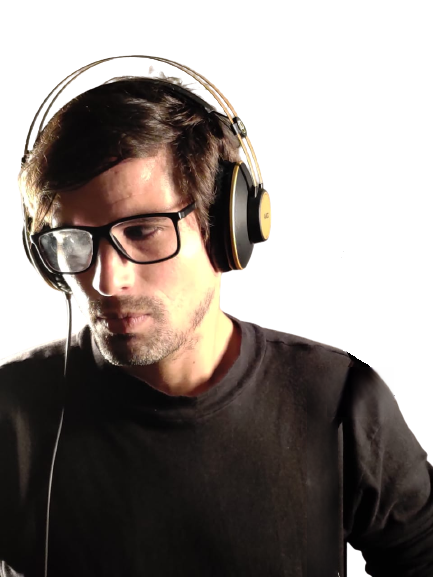
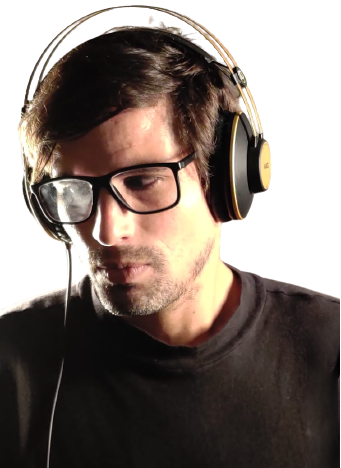
feat: navbar and apresentation finalized

diff --git a/src/components/navbar/Navbar.tsx b/src/components/navbar/Navbar.tsx
@@ -9,18 +9,34 @@ function Navbar(){
      return(
           <div className="navbar">
                     
-                    <div className="right-part">
-                         <h1>Portifólio</h1>
+               <div className="navbar-container">
+                    <div className="left-part ">
+                         <ul>
+                              <li ><a href="#about-me">Sobre mim</a></li>
+                              <li><a href="#skills">Skills</a></li>
+                              <li><a href="#training">Formação</a></li>
+                              <li ><a href="#projects">Projetos</a></li>
+                         </ul>
                     </div>
                     
-                    <div className="left-part">
-                              <ul>
-                                   <li>Sobre mim</li>
-                                   <li>Formação</li>
-                                   <li>Projetos</li>
-                              </ul>
-
+                    <div className="right-part">
+                         <a href="https://github.com/mfcastilho" target="_blank">
+                              <div className="social-media-icons-box">
+                              <img src="../../../public/github-icon.svg" alt="" className="github-icon" />   
+                              </div>
+                         </a>
+                         <a href="https://www.linkedin.com/in/mariofrederico/" target="_blank">
+                              <div className="social-media-icons-box">
+                              <img src="../../../public/linkedin-icon.svg" alt="" className="github-icon" />   
+                              </div>
+                         </a>
+                         <a href="https://www.instagram.com/mffredericofrederico/" target="_blank">
+                              <div className="social-media-icons-box">
+                              <img src="../../../public/instagram-icon.svg" alt="" className="github-icon" />   
+                              </div>
+                         </a>                           
                     </div>
+               </div>     
              
           </div>
      );

diff --git a/src/components/navbar/navbar.css b/src/components/navbar/navbar.css
@@ -1,7 +1,14 @@
+
 .navbar{
-     width: 100%;
-     height: 4rem;
-     margin: 0 auto;
+     display: flex;
+     justify-content: center;
+}
+
+.navbar-container{
+     /* width: 100%; */
+     width: 90%;
+     height: 7rem;
+
      padding: 2rem 8rem;
      position: fixed;
 
@@ -9,30 +16,64 @@
      align-items: center;
      justify-content: space-between;
 
-     background-color: #0c0c0c;
-     /* background-color: #000; */
+     background-color: #1B1B1B;
 
-     border-bottom: 4px solid #b6b4b4;
-     /* border-top: 4px solid #b6b4b4; */
+     border-radius: .8rem;
+    
 
      z-index: 2;
 
      font-family: 'Elsie Swash Caps', cursive;
-     font-family: 'Orbitron', sans-serif;    
+     font-family: 'IBM Plex Mono', monospace;   
 }
 
-.navbar .right-part h1{
-     color: #fff;
+.navbar-container .right-part{
+     display: flex;
+
+     gap: 3rem;
 }
 
-.navbar  .left-part ul{
+.navbar-container .right-part .social-media-icons-box{
+     width: 2.3rem;
+     height: 2.3rem;
+     display: flex;
+     justify-content: center;
+     align-items: center;
+     /* background-color: #9C9C9C; */
+     background-color: #a09e9e;
+     border-radius: .5rem;
+     border: none;
+}
+
+.navbar-container .right-part .social-media-icons-box img{
+     width: 2rem;
+     height: 2rem;
+     border-radius: 50%;
+}
+
+
+
+.navbar-container .left-part{
+     width: 70%;
+    
+     
+}
+
+.navbar-container .left-part ul{
      display: flex;
      align-items: center;
-     gap: 2rem;
+     gap: 7rem;
+
 }
 
-.navbar  .left-part ul li{
-     color: #FFF;
+.navbar-container .left-part ul li{
+     
      list-style: none;
-     font-size: 1.5rem;
+     font-size: 1.4rem;
 }
+
+.navbar-container .left-part ul li a{
+     color: #9C9C9C;
+     text-decoration: none;
+}
+

diff --git a/src/components/toppart/TopPart.tsx b/src/components/toppart/TopPart.tsx
@@ -9,25 +9,26 @@ function TopPart(){
                          initial="hidden"
                          whileInView="visible"
                          viewport={{ once: true, amount: 0.5 }}
-                         transition={{ delay: 0.2, duration: 0.5 }}
+                         transition={{ delay: 0.2, duration: 1.5 }}
                          variants={{
                          hidden: { opacity: 0, x: -50 },
                          visible: { opacity: 1, x: 0 },
                     }}
                > 
                     <div className="left-part">
-                         <h2>Olá, meu nome é Mario Frederico</h2>
-                         <h6>Sou Desenvovledor Web</h6>
-                         <ul>
+                         <h3>Olá, meu nome é</h3>
+                         <h2>Mario Frederico Castilho</h2>
+                         <h6>Sou um desenvovledor web apaixonado por tecnologia que sempre busca aprender e aprimorar as aptidões.</h6>
+                         {/* <ul>
                               <li><a href="https://github.com/mfcastilho" target="_blank">Github</a></li>
                               <li><a href="https://www.linkedin.com/feed/" target="_blank">Linkedin</a></li>
                               <li><a href="">Instagram</a></li>
                               <li><a href="">Currículo</a></li>
-                         </ul>
+                         </ul> */}
                     </div>
                </motion.div>
                <div className="right-part">
-                    <img src="../../../public/mario-foto-linkedin.png" alt="" />
+                    <img src="../../../public/mario-frederico.png" alt="" />
                </div>
           </div>
      );

diff --git a/src/components/toppart/topPart.css b/src/components/toppart/topPart.css
@@ -2,34 +2,41 @@
      width: 100%;
      height: 100vh;
      margin: 0 auto;
-     padding: 0 8rem;
+     padding: 0 14rem;
      padding-top: 5rem;
      padding-bottom: 5rem;
      display: flex;
      justify-content: space-between;
 
-     background-color: rgb(104, 100, 100);
-     opacity: .8;
+     /* background-color: rgb(104, 100, 100); */
+     /* opacity: .8; */
 
      font-family: 'Elsie Swash Caps', cursive;
-font-family: 'Orbitron', sans-serif;
+     font-family: 'IBM Plex Mono', monospace;   
 }
 
 .top-part .left-part{
+     width: 88%;
      display: flex;
      flex-direction: column;
-     margin-top: 5rem;
+     margin-top: 13.1rem;
      
 
-     color: #000;
+     color: #FFF;
 }
 
 .top-part .left-part h2{
      font-size: 3.0rem;
+     margin-bottom: 2rem;
+}
+
+.top-part .left-part h3{
+     color: #9C9C9C;
 }
 
 .top-part .left-part h6{
      font-size: 1.6rem;
+     color: #9C9C9C;
 }
 
 .top-part .left-part ul{
@@ -51,12 +58,14 @@ font-family: 'Orbitron', sans-serif;
 
 .top-part .right-part{
      display: flex;
-     margin-top: 5rem;
+     margin-top: 8rem;
 }
 
 .top-part .right-part img{
      border-radius: 50%;
 
-     width: 20rem;
-     height: 20rem;
+     width: 25rem;
+     height: 25rem;
+
+     margin-right: 2rem;
 }

diff --git a/index.html b/index.html
@@ -7,7 +7,7 @@
 
     <link rel="preconnect" href="https://fonts.googleapis.com">
      <link rel="preconnect" href="https://fonts.gstatic.com" crossorigin>
-     <link href="https://fonts.googleapis.com/css2?family=Elsie+Swash+Caps:wght@400;900&family=Orbitron:wght@400;500;600;700;800;900&display=swap" rel="stylesheet">
+     <link href="https://fonts.googleapis.com/css2?family=Elsie+Swash+Caps:wght@400;900&family=IBM+Plex+Mono:ital,wght@0,100;0,200;0,300;0,400;0,500;0,600;0,700;1,100;1,200;1,300;1,400;1,500;1,600;1,700&display=swap" rel="stylesheet">
     <title>Portifólio do Mario Frederico</title>
   </head>
   <body>

diff --git a/src/App.tsx b/src/App.tsx
@@ -2,6 +2,7 @@ import './App.css';
 import Home from './pages/home/Home';
 import Navbar from './components/navbar/Navbar';
 import TopPart from './components/toppart/TopPart';
+import AboutMe from './components/aboutme/AboutMe';
 
 function App() {
 
@@ -9,6 +10,7 @@ function App() {
           <div className='app'>
                <Navbar />
                <TopPart />
+               <AboutMe />
                <Home />
           </div>
      )

diff --git a/src/App.css b/src/App.css
@@ -11,14 +11,16 @@
 
 body{
 
-     background-image: url("./../public/background3.png");
+     /* background-image: url("./../public/background3.png");
      background-size: contain;
      background-repeat: no-repeat;
      background-position: center;
      background-attachment: fixed;
-     height: 200vh;
+     height: 200vh; */
 
-     background-color: #0C0C0C;
+     background-color: #080808;
 
      margin: 0 auto;
+
+     
 }

diff --git a/src/components/aboutme/aboutMe.css b/src/components/aboutme/aboutMe.css
@@ -1,0 +1,22 @@
+
+.about-me {
+     
+
+     width: 100%;
+     height: 100vh;
+     margin: 0 auto;
+     padding: 0 8rem;
+     padding-top: 5rem;
+     padding-bottom: 5rem;
+     display: flex;
+     justify-content: space-between;
+
+
+     opacity: .8;
+
+     font-family: 'Elsie Swash Caps', cursive;
+     font-family: 'Orbitron', sans-serif;
+}
+.about-me h1{
+     color: #FFF;
+}

diff --git a/src/components/aboutme/AboutMe.tsx b/src/components/aboutme/AboutMe.tsx
@@ -1,0 +1,11 @@
+import "./aboutMe.css";
+
+function AboutMe(){
+     return(
+          <div className="about-me" id="about-me">
+               <h1>Sobre mim</h1>
+          </div>
+     );
+}
+
+export default AboutMe;

diff --git a/src/pages/home/home.css b/src/pages/home/home.css
@@ -8,6 +8,8 @@ body{
      margin: 0 auto;
 
      padding: 2rem 10rem;
+
+     
 }
 
 .home .top-part{
